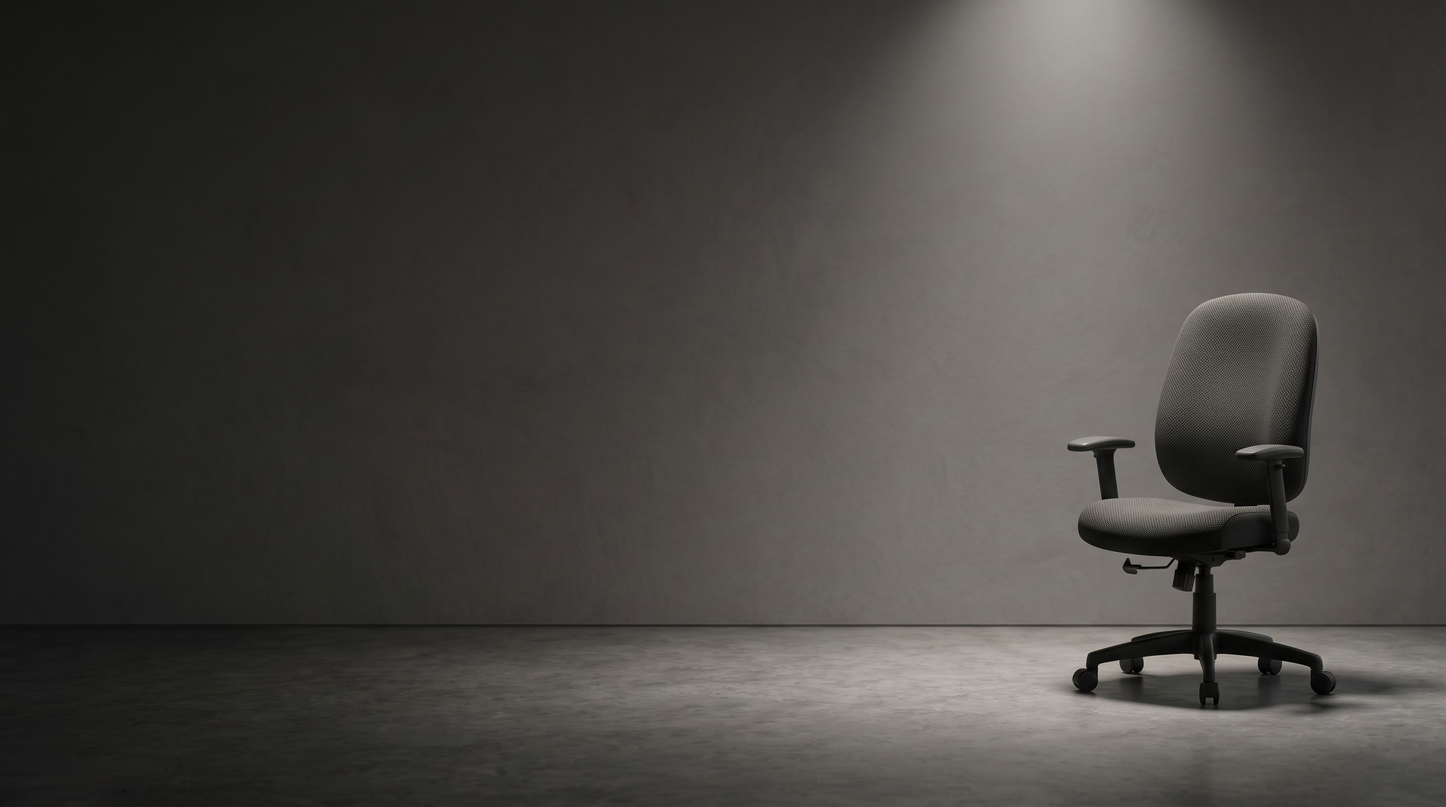
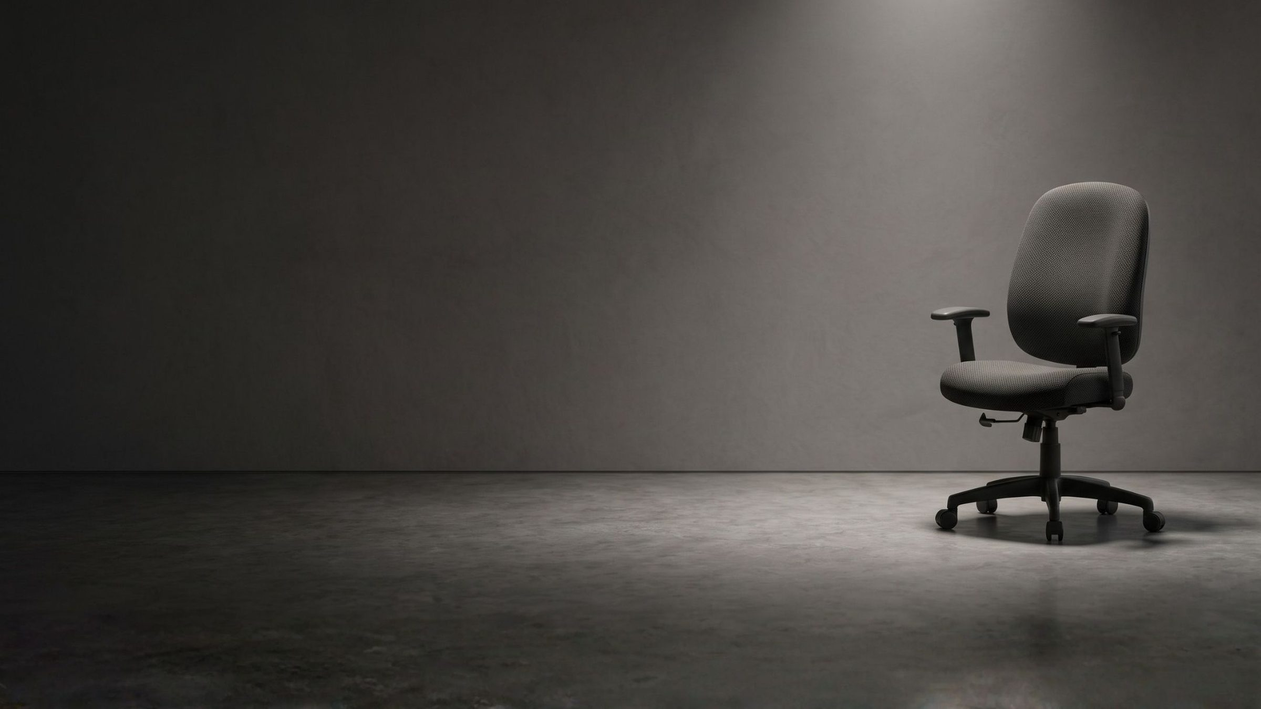
Trocar foto de fundo da hero da Loja

diff --git a/loja/style.css b/loja/style.css
@@ -131,7 +131,7 @@ a:focus-visible, button:focus-visible {
   align-items: center;
   background:
     linear-gradient(90deg, rgba(0,0,0,0.6) 0%, rgba(0,0,0,0.55) 45%, rgba(0,0,0,0.15) 75%, rgba(0,0,0,0) 100%),
-    url('../assets/produtos/loja2-hero-fundo.jpeg') center right / cover no-repeat;
+    url('../assets/produtos/loja2-hero-fundo.jpeg?v=2') center right / cover no-repeat;
   color: #fff;
 }
 .hero-inner { display: flex; flex-direction: column; gap: var(--espaco-4); width: 100%; }
